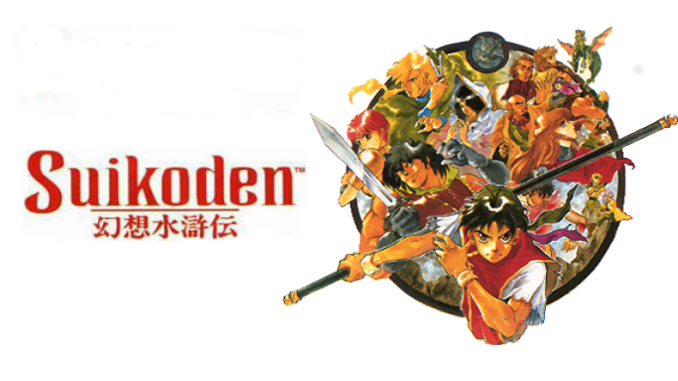
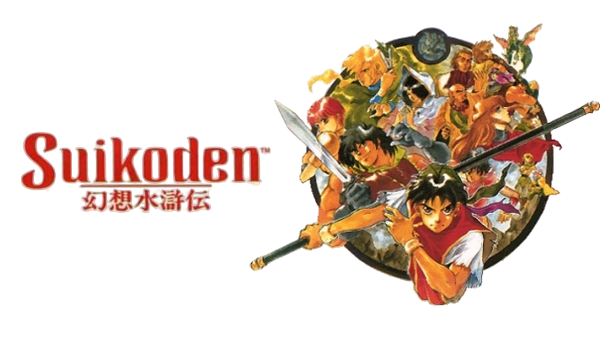
hq data on map

diff --git a/js/components/chapter.components.js b/js/components/chapter.components.js
@@ -16,13 +16,15 @@ function renderBadges(dataObj) {
   let html = '';
   categories.forEach(cat => {
     const val = dataObj[cat.key];
+    let count = 0;
     if (val && Array.isArray(val) && val.length > 0) {
       const badges = val.map(x => {
+        count++;
         const isObj = typeof x === 'object' && x !== null;
         const label = isObj ? (x.name || x.title || JSON.stringify(x)) : x;
         const typeStr = isObj && typeof x.type === 'string' ? x.type.toLowerCase() : '';
         const isBoss = isObj && (typeStr === 'boss' || x.isBoss === true);
-        const checked = cat.trackable ? isChecked(cat.key, label+'-'+dataObj.id) : false;
+        const checked = cat.trackable ? isChecked(cat.key, label+'-'+dataObj.id+'-'+count) : false;
 
         let badgeClass = 'badge';
         if (isBoss) badgeClass += ' badge-boss';
@@ -31,7 +33,7 @@ function renderBadges(dataObj) {
         if (cat.key === 'enemies') badgeClass += ' enemy-chip ';
 
         const icon = isBoss ? '💀 ' : (checked ? '✔ ' : '');
-        const trackAttrs = cat.trackable ? `data-track-cat="${cat.key}" data-track-key="${label}-${dataObj.id}" title="Click to check off"` : '';
+        const trackAttrs = cat.trackable ? `data-track-cat="${cat.key}" data-track-key="${label}-${dataObj.id}-${count}" title="Click to check off"` : '';
 
         return `<span data-enemy-name="${cat.key === 'enemies' ? label : ''}" class="${badgeClass}" ${trackAttrs}>${icon}${label}</span>`;
       }).join('');

diff --git a/js/views/hq.view.js b/js/views/hq.view.js
@@ -1,11 +1,11 @@
 gameId = sessionStorage.getItem('game');
 
-function renderHQView() {
+function renderHQView(container) {
 
   const trackables = document.getElementById('trackables');
   trackables.innerHTML = '';
   
-  const main = document.getElementById('main-content');
+  const main = document.getElementById(container);
   if (!main) return;
 
   const hq = guideData.hq;
@@ -121,7 +121,9 @@ function renderHQView() {
                   <h3 class="facility-name">${facilityName}</h3>
                   ${reqLevel ? `<span class="facility-hq-tag">HQ Lv. ${reqLevel}</span>` : ''}
                   <span class="facility-status-pill ${isFacilityUnlocked ? 'pill-unlocked' : 'pill-locked'}">
-                    ${isFacilityUnlocked ? '✓ Unlocked' : `🔒 Needs Recruit #${recruitId}`}
+ <!--                   ${isFacilityUnlocked ? '✓ Unlocked' : `🔒 Needs Recruit #${recruitId}`} -->
+                        <!--${isFacilityUnlocked ? '✓ Unlocked' : `🔒 Needs ${recruitInfo.name}`}-->
+                        ${isFacilityUnlocked ? '✓ Unlocked' : `🔒 Locked`}
                   </span>
                 </div>
                 

diff --git a/S1/data/chapters/ch00.js b/S1/data/chapters/ch00.js
@@ -1,7 +1,7 @@
 guideData.chapters.push({
       "id": 0,
       "title": "Indroduction",
-      "picture":"0.png",
+      "picture":"intro.png",
       "paragraphs":[
         {
             "type":"plain",
@@ -18,6 +18,10 @@ guideData.chapters.push({
         {
             "type":"plain",
             "text":"One day, Teo makes a trip to the north to protect his Empire. It is then that the boy realizes his place in the Empire and sees the world with his own eyes for the first time. A world filled with resentment toward the Empire awaits..."
+        },
+        {
+            "type":"picture",
+            picture:"0.png"
         }
       ]
     });

diff --git a/S2/data/chapters/ch02.js b/S2/data/chapters/ch02.js
@@ -2,7 +2,18 @@ guideData.chapters.push({
       "id": 2,
       "title": "Mercenary Fortress, running errands",
       "picture":"",
-      "paragraphs":[
-        
-      ]
+      party:[
+        {name:"Hero",level:"06"}
+      ],
+      //collectibles:["Flint","Rope"]  ,
+      recruits:[
+        {id: null, name:"Tuta", range:"L"},
+        {id: null, name:"Gengen", range:"S"}
+      ],
+      equipment:["Boots","Boots"],
+      paragraphs:[
+
+      ],
+      
+      
     });

diff --git a/js/components/cities.components.js b/js/components/cities.components.js
@@ -23,7 +23,7 @@ function renderShopCategory(title, itemList) {
 function renderMapArea(city, index) {
   if(city.coords) {
     return `
-      <area shape="circle" coords="${city.coords},12" alt="${city.name}" onclick="displayCity(${index})" href="#" >
+      <area shape="circle" coords="${city.coords},12" alt="${city.name}" onclick="${city.render == 'hq' ? `renderHQView('city-info')` : `displayCity(${index})`}" href="#">
     `;
   }
 }

diff --git a/js/renders.js b/js/renders.js
@@ -60,11 +60,11 @@ function renderSidebar() {
       <button class="nav-btn-main" data-view="recruits">
         <span>★ 108 Stars</span>
       </button>
-
+<!--
       <button class="nav-btn-main" data-view="hq">
         <span>🏰 Headquarters</span>
       </button>
-
+-->
       <button class="nav-btn-main" data-view="collectibles">
         <span>💎 Collectibles</span>
       </button>

diff --git a/js/nav.js b/js/nav.js
@@ -27,9 +27,11 @@ function switchView(viewName) {
     case 'recruits':
       renderRecruitsView(document.getElementById('main-content'));
       break;
+      /*
     case 'hq':
-      renderHQView();
+      renderHQView('main-content');
       break;  
+      */
     case 'collectibles':
       renderAllCollectiblesView();
       break;  

diff --git a/css/layout.css b/css/layout.css
@@ -321,7 +321,7 @@
 .header-img {
   display: block;
   margin:4px auto;
-  max-height: 150px;
+  /*max-height: 150px;*/
   object-fit: cover;
-  width:95%
+  max-width:95%
 }

diff --git a/S1/data/cities.js b/S1/data/cities.js
@@ -463,6 +463,7 @@ guideData.cities = [
   },
   {
     name: "Toran Lake Castle",
+    render:"hq",
     picture: "",
     coords:"862,375",
     stars: "",
